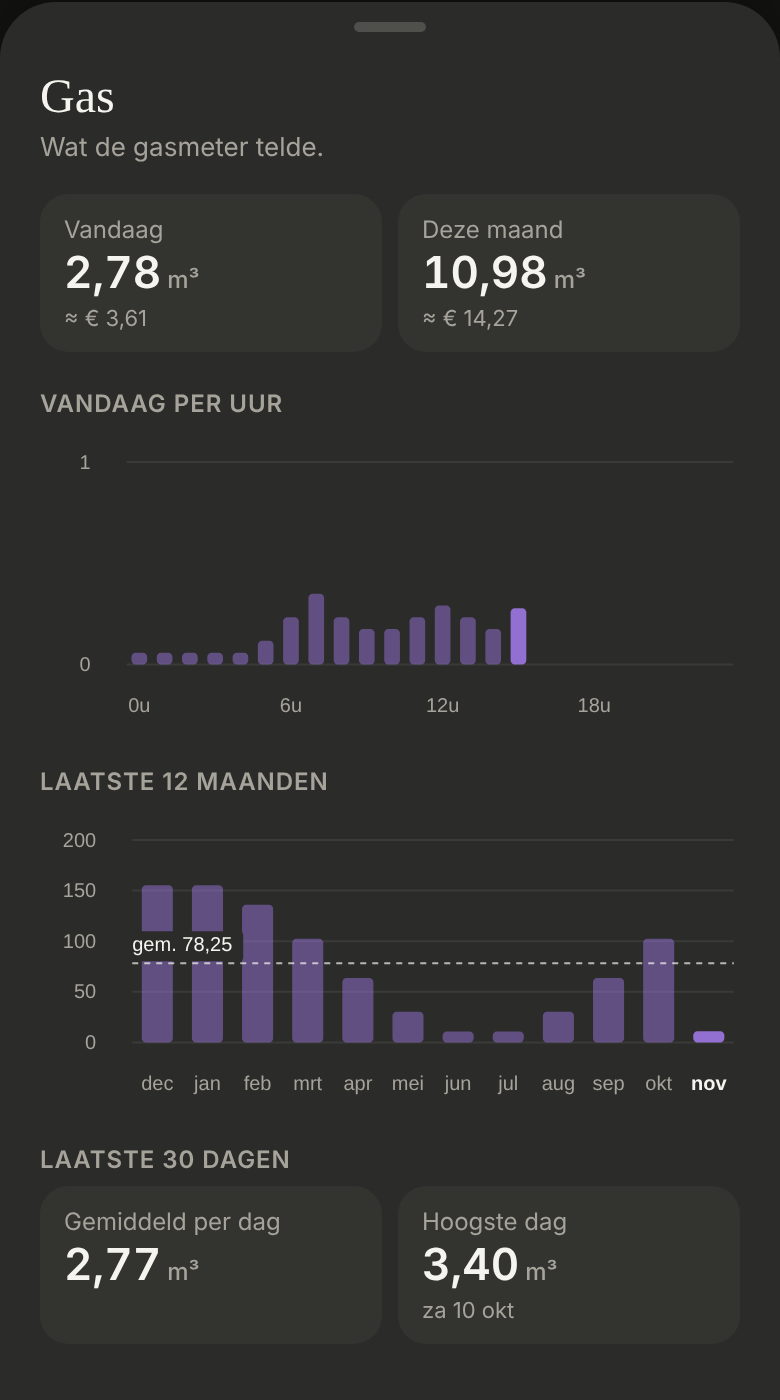
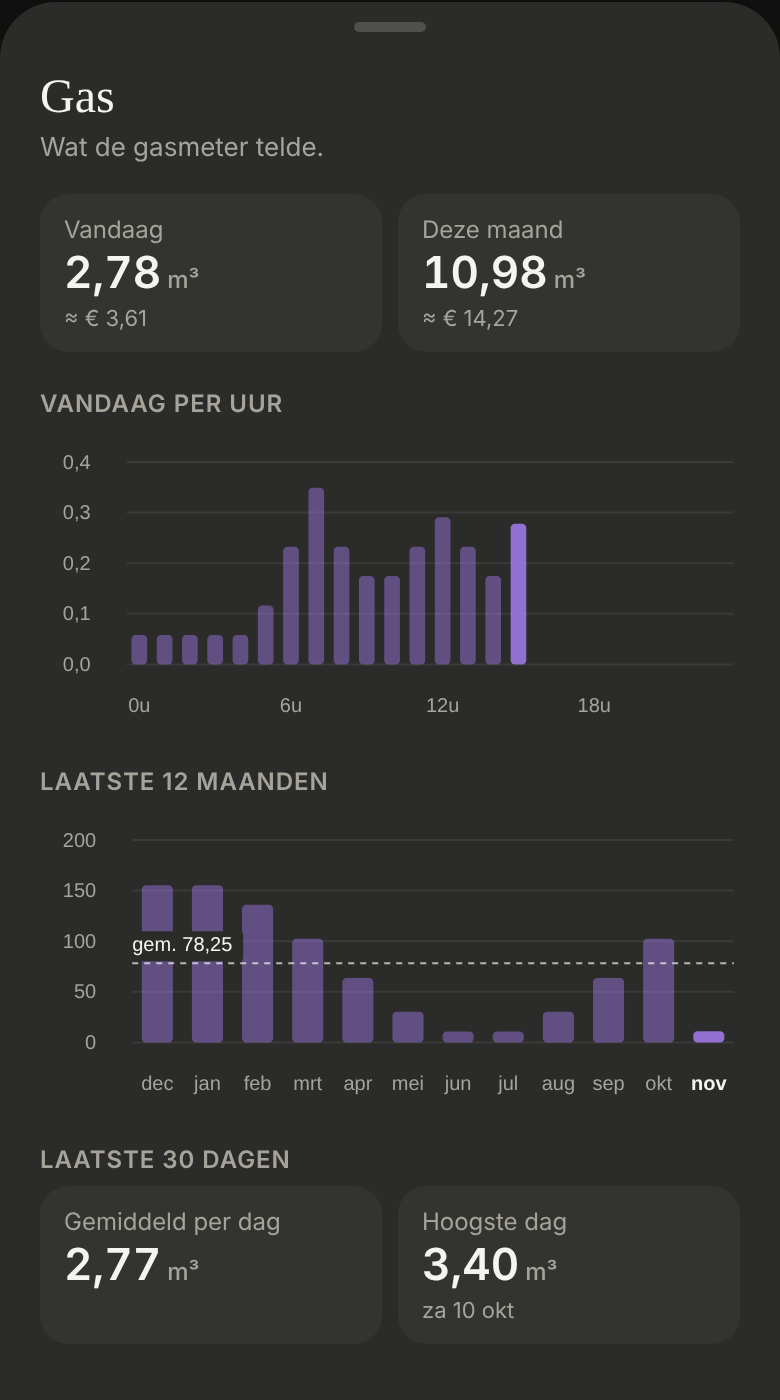
Energie: the sheets' y-axes get a decimal where the values are small
Whole numbers only gave "0 1" under an hour's few tenths of a kWh. Below
whole steps, the axis now takes steps like 0,2 or 0,5 with the one
decimal they need; bigger values keep whole numbers.

Claude-Session: https://claude.ai/code/session_01KM6EwXvT22zbGn1J5Xot1E

Changed region(s): [[0.1538, 0.3379, 0.6769, 0.4914], [0.0923, 0.3071, 0.1231, 0.3379]]

diff --git a/src/components/energy/InfoSheet.tsx b/src/components/energy/InfoSheet.tsx
@@ -139,23 +139,27 @@ export function InfoBarChart({ labels, values, color, nowIndex = values.length -
 export interface RoundAxis {
   max: number;
   steps: number;
+  /** As few as the step needs: none for whole steps, one for 0,2 or 0,5. */
+  decimals: number;
 }
 
 /**
- * A y-axis from 0 to just above `highestValue`, in about 4 round steps of
- * whole numbers (1, 2, 5 or 10 times a power of ten), so the labels need no
- * decimals.
+ * A y-axis from 0 to just above `highestValue`, in about 4 round steps (1, 2
+ * or 5 times a power of ten). Whole numbers when the values are big enough;
+ * below that, steps like 0,2 with the one decimal they need (the owner's
+ * choice: no decimals, except where whole numbers would only give "0 1").
  */
 export function roundAxis(highestValue: number): RoundAxis {
-  const roughStep = Math.max(1, (highestValue || 1) / AXIS_STEPS);
+  const roughStep = (highestValue || 1) / AXIS_STEPS;
   const powerOfTen = 10 ** Math.floor(Math.log10(roughStep));
   const roundStep = [1, 2, 5, 10].map((factor) => factor * powerOfTen).find((step) => step >= roughStep) ?? 10 * powerOfTen;
   const steps = Math.max(1, Math.ceil(highestValue / roundStep));
+  const decimals = Math.max(0, -Math.floor(Math.log10(roundStep) + 1e-9));
 
-  return { max: steps * roundStep, steps };
+  return { max: steps * roundStep, steps, decimals };
 }
 
-/** ApexCharts' y-axis for a round axis: muted whole numbers on the left, without the unit (the sheet says it). */
+/** ApexCharts' y-axis for a round axis: muted numbers on the left, without the unit (the sheet says it). */
 export function axisOptions(axis: RoundAxis): ApexOptions['yaxis'] {
   return {
     show: true,
@@ -164,7 +168,7 @@ export function axisOptions(axis: RoundAxis): ApexOptions['yaxis'] {
     tickAmount: axis.steps,
     labels: {
       style: { colors: MUTED_TEXT_COLOR, fontSize: '10px' },
-      formatter: (value: number) => readableAmount(value, 0),
+      formatter: (value: number) => readableAmount(value, axis.decimals),
     },
   };
 }

diff --git a/docs/design/energie-sheets/README.md b/docs/design/energie-sheets/README.md
@@ -22,7 +22,7 @@ A tap anywhere on the day tile (`DayTile`'s `onOpen`). A small "›" right after
 - **Vandaag per uur:** 24 bars from midnight (hourly statistics, `change`); the current hour, which HA has no statistics for yet, is today so far minus the hours before it, in the full colour. Labels under 0u, 6u, 12u and 18u.
 - **Laatste 12 maanden:** 11 months from the monthly statistics plus this month so far, with the average of the earlier months as a dashed line. (A line "November loopt nog; vorig jaar …" under it was removed at the owner's request.)
 - **Laatste 30 dagen:** the average day and the highest day, with its date.
-- **Every chart in a sheet has a y-axis** (4 November, the owner's request: only in the sheets, not on the tiles): 0 to just above the highest bar in about 4 round steps of whole numbers (`roundAxis`: 1, 2, 5 or 10 × a power of ten), muted labels **without unit and without decimals** (the owner's choice: the sheet already says the unit), and faint horizontal lines at each step (`axisOptions`, shared with the Capaciteitstarief sheet). 20px between the numbers and the first bar, so they don't stick to the chart.
+- **Every chart in a sheet has a y-axis** (4 November, the owner's request: only in the sheets, not on the tiles): 0 to just above the highest bar in about 4 round steps (`roundAxis`: 1, 2 or 5 × a power of ten), muted labels **without unit** (the sheet already says it), in **whole numbers**, except where the values are small: then steps like 0,1, 0,2 or 0,5 with the one decimal they need ("0,0 0,5 1,0 1,5"), since whole numbers would only give "0 1" (the owner's choice), and faint horizontal lines at each step (`axisOptions`, shared with the Capaciteitstarief sheet). 20px between the numbers and the first bar, so they don't stick to the chart.
 - A section that has no statistics yet is left out.
 
 ## Per sheet
